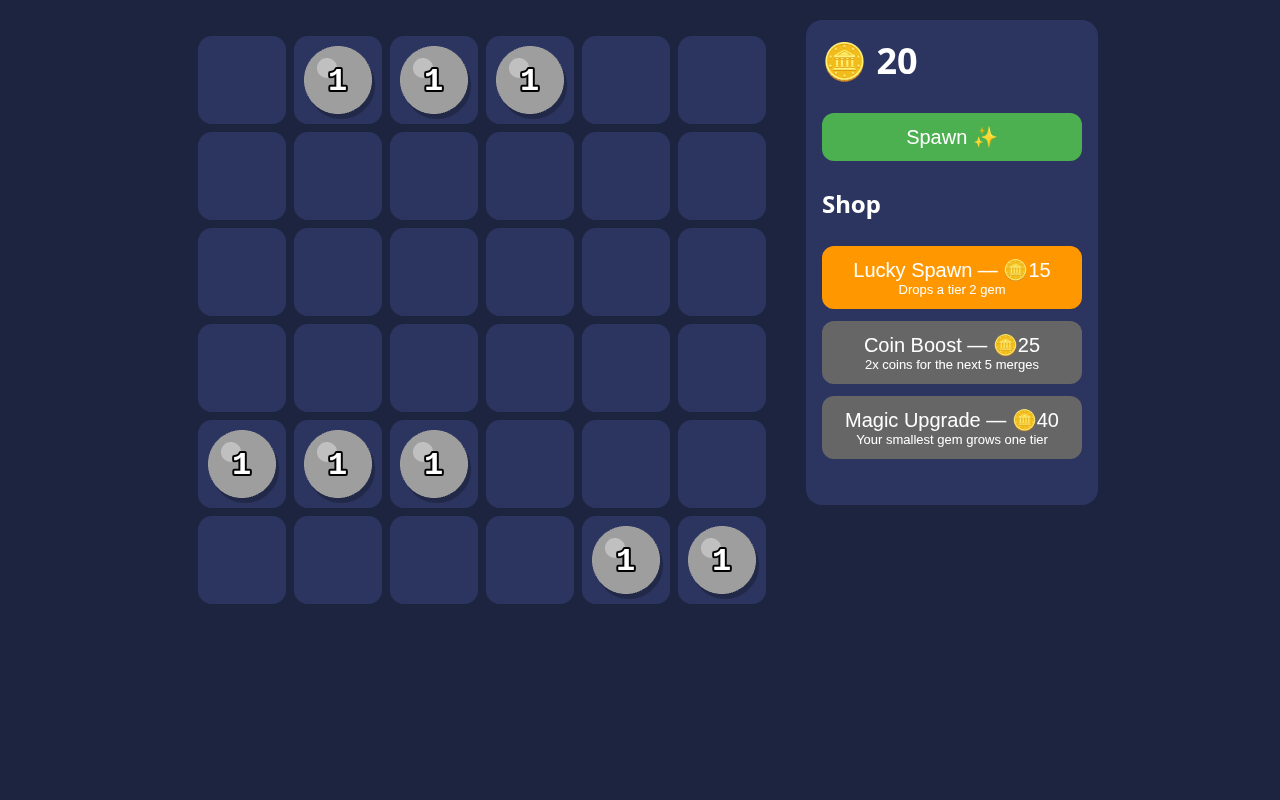
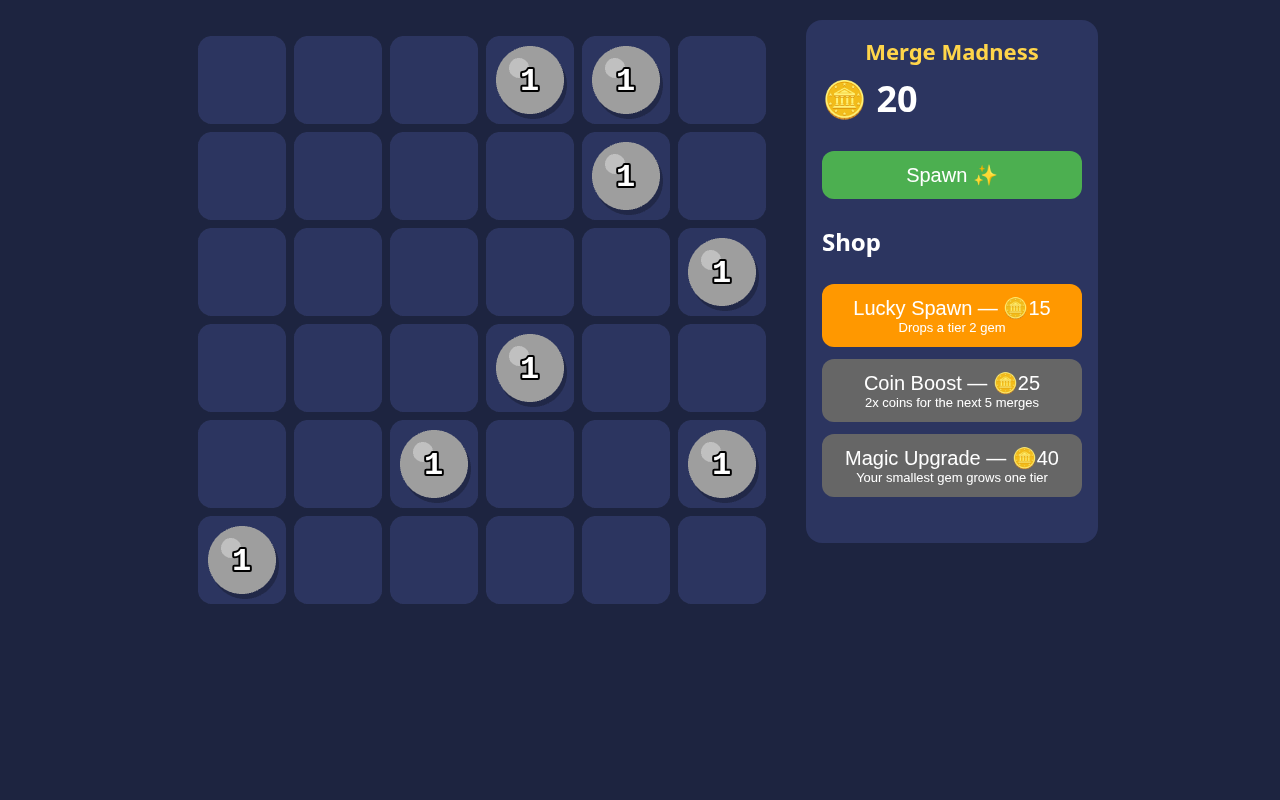
Merge Madness title, README

diff --git a/index.html b/index.html
@@ -1,6 +1,6 @@
 <!doctype html><html><head><meta charset="utf-8"><meta name="viewport" content="width=device-width,initial-scale=1,user-scalable=no">
-<title>Miles' Merge</title><link rel="stylesheet" href="/src/style.css"></head>
+<title>Merge Madness</title><link rel="stylesheet" href="/src/style.css"></head>
 <body><div id="app"><div id="game"></div>
-<div id="hud"><div id="coins">🪙 <span id="coin-count">0</span></div><div id="boost"></div>
+<div id="hud"><h1 id="title">Merge Madness</h1><div id="coins">🪙 <span id="coin-count">0</span></div><div id="boost"></div>
 <button id="spawn-btn">Spawn ✨</button><h2>Shop</h2><div id="shop"></div><div id="msg"></div></div></div>
 <script type="module" src="/src/main.ts"></script></body></html>

diff --git a/src/style.css b/src/style.css
@@ -5,3 +5,4 @@ body{margin:0;background:#1d2440;font-family:system-ui,sans-serif;color:#fff;tou
 button{font-size:20px;border:0;border-radius:12px;padding:12px;width:100%;margin:6px 0;cursor:pointer;background:#4caf50;color:#fff}
 .shop-item{background:#ff9800}.shop-item:disabled{background:#666;cursor:not-allowed}
 .shop-item small{display:block;font-size:13px}#msg{min-height:24px;color:#8f8}
+#title{margin:0 0 8px;font-size:22px;color:#ffd54a;text-align:center}

diff --git a/README.md b/README.md
@@ -1,0 +1,16 @@
+# Merge Madness
+
+A merge game for Miles. Drag two matching gems together to make a bigger one and earn pretend coins, then spend them in the shop.
+
+Coins are pretend. No real money, ads, accounts, or data collection.
+
+## Play
+
+```
+npm install
+npm run dev
+```
+
+## Change the numbers
+
+Everything you can tweak (coins per tier, shop prices, spawn odds) is in `src/config.ts`.
